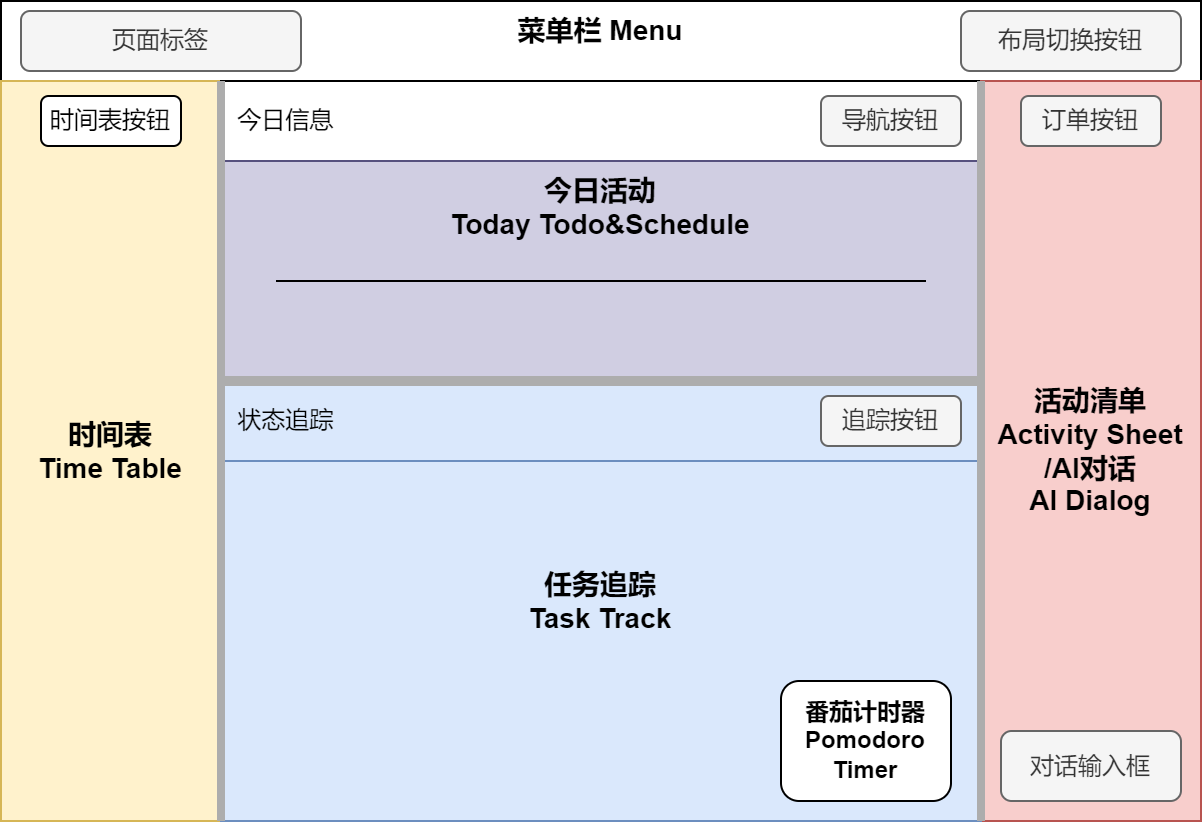
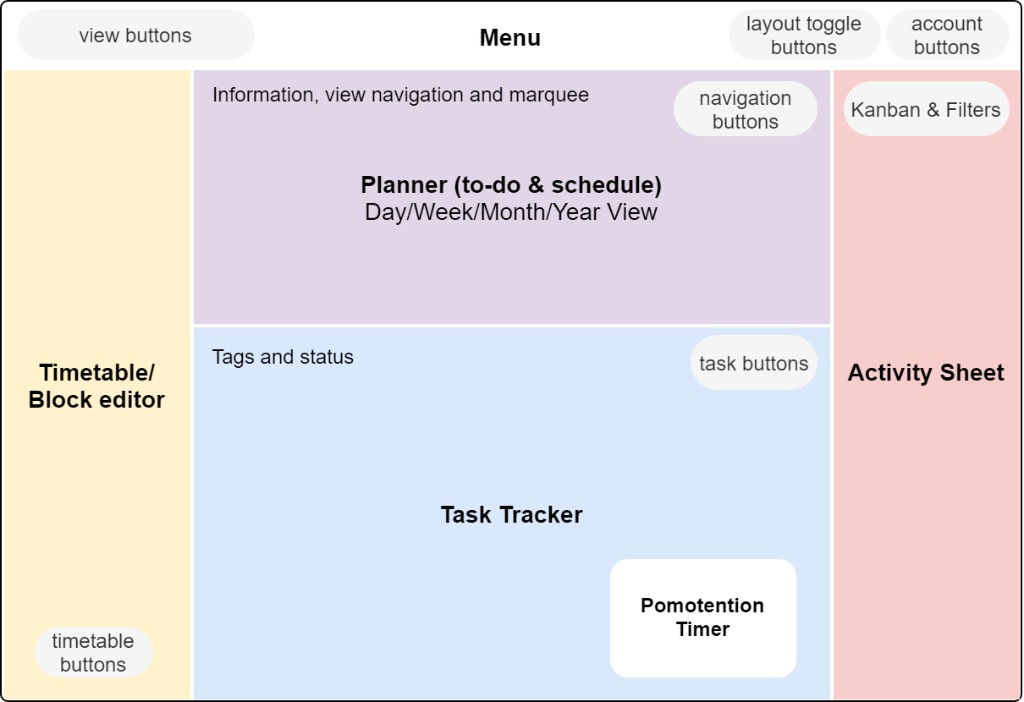
docs(help): 页面部分重构

Changed region(s): [[0.0, 0.0, 1.0, 1.0], [0.4062, 0.688, 0.5625, 0.7778]]

diff --git a/docs/guide/reference/interface.md b/docs/guide/reference/interface.md
@@ -1,78 +1,150 @@
 # 软件界面说明
 
+::: tip 快速查阅
+
+- [附录：按钮速查表](../appendix/buttons.md)
+- [附录：术语对照表](../appendix/glossary.md)
+  :::
+
 ![页面布局](/public/pomotention-layout.png)
+![页面布局实际](/public/pomotention-app.png)
 
-## 1 菜单栏
+## 1 顶栏（Menu）
 
-### 1.1 页面跳转
+### 1.1 路由菜单
 
 **核心功能**：
 
 - 切换到`首页`
-- 切换到`数据页`
-- 切换到`帮助页`，查看版本，关闭更新
-- 切换到`仪表盘`，查看数据趋势图
+- 切换到`数据页`，查看全部活动，[详见](search.md)
+- 切换到`仪表盘`，查看行为数据趋势, [详见](./chart.md)
+- 切换到`帮助页`，查看软件帮助信息
+- 切换到`设置页`，软件状态及调试工具
+- <img src="/icons/List24Filled.svg" width="20" style="display:inline-block;vertical-align:middle;margin:0;background:rgb(244, 244, 244);border-radius: 6px;">
+  手机端收缩菜单按钮
 
 ### 1.2 布局切换
 
-**核心功能**：
+|                                                                                按钮图标                                                                                 | 功能说明                               |
+| :---------------------------------------------------------------------------------------------------------------------------------------------------------------------: | :------------------------------------- |
+|    <img src="/icons/Timeline20Regular.svg" width="20" style="display:inline-block;vertical-align:middle;margin:0;background:rgb(255, 255, 255);border-radius: 6px;">    | 切换时间表视图 `Timetable`             |
+|    <img src="/icons/TasksApp20Regular.svg" width="20" style="display:inline-block;vertical-align:middle;margin:0;background:rgb(255, 255, 255);border-radius: 6px;">    | 切换任务计划视图 `Planner`             |
+| <img src="/icons/CalligraphyPen20Regular.svg" width="20" style="display:inline-block;vertical-align:middle;margin:0;background:rgb(255, 255, 255);border-radius: 6px;"> | 切换任务追踪视图 `Task Tracker`        |
+|   <img src="/icons/BookLetter20Regular.svg" width="20" style="display:inline-block;vertical-align:middle;margin:0;background:rgb(255, 255, 255);border-radius: 6px;">   | 切换活动清单视图 `Activity Sheet`      |
+|     <img src="/icons/Timer24Regular.svg" width="20" style="display:inline-block;vertical-align:middle;margin:0;background:rgb(255, 255, 255);border-radius: 6px;">      | 切换番茄意图计时器 `Pomotention Timer` |
+|      <img src="/icons/Pin24Regular.svg" width="20" style="display:inline-block;vertical-align:middle;margin:0;background:rgb(255, 255, 255);border-radius: 6px;">       | 切换计时器置顶模式（仅桌面应用）       |
+|                                                                                                                                                                         |
 
-- 仅显示番茄时钟置顶
-- 显示隐藏番茄钟区、时间表区、任务计划区、任务追踪区、活动清单区
+### 1.3 账号与数据
 
-## 2 首页布局
+- 详见：[账号与数据](../intro/account-and-data.md)
 
-### 2.1 右侧面板
-
-#### 2.1.1 活动清单
-
-**核心功能**：
-
-- 管理各类型活动
-- 设置标签，活动级别
-- 利用筛选和拖拽功能构建看板
-- 将活动导入任务计划
-- 增加活动记录的追踪信息
-- 利用颜色标记活动的时效和状态
-
-#### 2.1.2 AI 对话
-
-**核心功能**：
-
-- 发起 AI 对话
-- 修改设置
-- 删除历史对话
-
-### 2.2 中上面板 - 任务计划区
-
-**核心功能**：
-
-- 管理当天所有待办和预约
-- 实时追踪任务完成状态
-- 快速导航不同日期的任务
-- 提供日、周和月视图
-- 今日累积番茄和全局累积番茄可视化
-
-### 2.3 中下面板 - 任务追踪区
-
-**核心功能**：
-
-- 记录任务执行过程中的细节
-- 统计精力消耗情况
-- 标记任务被打断情况（内部/外部打扰）并转化为活动
-- 保存和提取书写模板
-
-### 2.4 左侧区域 - 时间表区
+## 2 左侧面板：时间表 / 区块编辑器（Timetable / Block editor）
 
 **核心功能**：
 
 - 可视化一日的工作、休息分布
 - 编辑工作/休闲时间表，切换显示
-- 互动式任务安排于可用时间区间
+- 在可用时间区间内互动式安排任务
+- 详见：[时间表构建](timetable.md)
 
-### 2.5 功能联动说明
+## 3 中央上面板：任务计划（Planner）
 
-1. **活动清单 → 任务计划**：待办活动手动选择到指定日期，预约活动基于到期日期自动加入计划
-2. **活动清单 → 任务追踪**：活动清单或任务计划选择追踪任务，3 个区域联动显示
-3. **任务计划 → 时间表**：设置番茄时间和优先级后，任务会同步显示在时间表时间轴上，并可以拖动修改位置
-4. **全局日期切换**：更改顶部日期后，所有面板内容会自动同步更新
+**核心功能**：
+
+- 规划管理待办 `to-dos` 、预约 `schedules`和活动 `activities`
+- 显示任务追踪信息 `task`
+- 日、周、月、年视图切换及导航
+- 展示当前视图日期信息
+- 展示累积番茄量
+- 基于标签筛视图中的活动
+- 滚动展示当前核心意图
+- 详见：[任务计划](planner.md)
+
+## 4 中央下面板：任务追踪（Task Tracker）
+
+**核心功能**：
+
+- 展示标签 `tag` 和任务状态信息
+- 记录精力消耗 `energy` ，奖赏值 `reward` 情况
+- 标记任务被打断情况（内部/外部打扰）`activities` 并转化为活动
+- 保存和提取书写模板 `writing template`
+- 详见：[任务追踪](task.md)
+
+## 5 右侧面板：活动清单（Activity Sheet）
+
+**核心功能**：
+
+- 增删改活动 `activities`
+- 利用筛选和拖拽功能构建看板
+- 将活动加入任务计划
+- 以颜色标记活动的时效和状态
+- 详见：[活动清单](planner.md)
+
+## 6 浮动区域：番茄意图计时器（Pomotention Timer）
+
+**核心功能**：
+
+- 单次工作或休息计时
+- 连续工作或休息计时
+- 自定义工作、休息时长
+- 自定义工作白噪音
+- 自定义工作标语
+- 计时器置顶（仅桌面应用）
+- 详见：[番茄意图计时器](timer.md)
+
+## 7 功能联动说明
+
+可以把首页想成一条流水线：**活动清单**负责「有什么」；**任务计划**负责「哪天做、排进日历语义」；**时间表**负责「这一天里几点到几点」；**任务追踪**负责「真正做的时候写了什么、耗了多少精力」；**番茄钟**负责「当下这一段是否在计时」。下面两张图分别对应「区域之间往哪送数据」和「同一条工作从想法到记录」的大致顺序；拖动、筛选等多是**在同一区域里改形状**，跨区时才会出现箭头上的那些动作。
+
+### 7.1 区域之间：数据往哪流
+
+```mermaid
+flowchart TB
+  AS["活动清单 Activity Sheet<br/>一条 Activity"]
+  PL["任务计划 Planner<br/>Todo / Schedule"]
+  TT["时间表 Timetable<br/>当日时间轴上的块"]
+  TK["任务追踪 Task Tracker<br/>Task 执行记录"]
+  PM["番茄意图计时器 Pomotention Timer"]
+
+  AS -->|"加入今日/预约"| PL
+  PL -->|"选定日期的条目出现在轴上"| TT
+  AS -->|"选活动 → 追踪"| TK
+  PL -->|"执行中关联为追踪任务"| TK
+  TK -.->|"同时计时/休息"| PM
+```
+
+- 上图里 **`Activity`** 始终在清单侧；进入计划后仍是同一条数据在 **`Planner`** 里换视图展示。
+- **`Task`** 在追踪侧：可以从清单或计划「点进追踪」挂上，执行中的文字、能量、打断等多写在这里。
+- **`Timetable`** 上的拖动改的是**当天时间分配**（可视化一日），不替代 `Planner` 里周/月视角的排程语义。
+- **`Pomotention Timer`** 不「存业务数据」，但与追踪同时进行时，构成执行情境（预估时长、实际专注段等）。
+
+### 7.2 同一件事：从条目到记录（生命周期直觉）
+
+```mermaid
+stateDiagram-v2
+  direction LR
+  state "在活动清单" as S1
+  state "在任务计划" as S2
+  state "在时间表上" as S3
+  state "在任务追踪" as S4
+
+  [*] --> S1: 新建或整理 Activity
+  S1 --> S2: 纳入 Todo / Schedule
+  S2 --> S3: 出现在当日轴并可拖动
+  S2 --> S4: 选为追踪任务
+  S1 --> S4: 直接追踪（如灵感/拆分）
+  S4 --> S1: 打扰等转为新 Activity
+  S3 --> S4: 执行时打开追踪
+```
+
+### 7.3 联动要点（对照上图）
+
+1. **`Activity Sheet` → `Planner`**：把选定活动加入计划，成为待办 `Todo` 或预约 `Schedule`。
+2. **`Activity Sheet` → `Task Tracker`**：不先排程也可以追踪——适合灵感、拆分、边做边记。
+3. **`Planner` → `Task Tracker`**：执行某条已排活动时，在追踪区写状态、想法、能量等，对应 **`Task`**。
+4. **`Planner` → `Timetable`**：当前选定日期的 `Todo` / `Schedule` 会出现在左侧时间轴；**拖动块**是在把「这一天里」的占位调到具体时段。
+5. **`Planner` 内**：日 / 周 / 月 / 年视图切换，用来从不同时间尺度看趋势（仍在计划语义内，与时间表「单日轴」互补）。
+6. **`Pomotention Timer`**：与 `Todo` 的预估、执行中的专注段配合，提供计时情境；可与追踪并行使用。
+
+术语若混用，见 [附录：术语对照表](../appendix/glossary.md)。

diff --git a/docs/guide/intro/account-and-data.md b/docs/guide/intro/account-and-data.md
@@ -20,6 +20,16 @@ description: 注册、登录、云端同步与 JSON 导入导出；桌面与 PWA
 | 全量 JSON **导出**   | 支持       | 不支持          | 不支持         |
 | JSON **导入**        | 支持       | 支持            | 不支持         |
 
+## 按钮与状态
+
+|                                                                                按钮图标                                                                                 | 功能说明                           |
+| :---------------------------------------------------------------------------------------------------------------------------------------------------------------------: | :--------------------------------- |
+| <img src="/icons/DatabasePerson20Regular.svg" width="20" style="display:inline-block;vertical-align:middle;margin:0;background:rgb(255, 255, 255);border-radius: 6px;"> | 打开数据迁移菜单                   |
+|     <img src="/icons/Person20Filled.svg" width="20" style="display:inline-block;vertical-align:middle;margin:0;background:rgb(255, 255, 255);border-radius: 6px;">      | 未登录，跳转登录页面               |
+|     <img src="/icons/Person20Regular.svg" width="20" style="display:inline-block;vertical-align:middle;margin:0;background:rgb(255, 255, 255);border-radius: 6px;">     | 已登录，跳转登录页面               |
+|     <img src="/icons/Person20Regular.svg" width="20" style="display:inline-block;vertical-align:middle;margin:0;background:rgb(193, 226, 255);border-radius: 6px;">     | 已登录，有未同步数据，跳转登录页面 |
+|   <img src="/icons/CloudSync20Regular.svg" width="20" style="display:inline-block;vertical-align:middle;margin:0;background:rgb(193, 226, 255);border-radius: 6px;">    | 数据正在同步                       |
+
 ## 注册与云端同步 {#account-sync}
 
 - 点击登录按钮<img src="/icons/Person20Filled.svg" width="20" style="display:inline-block;vertical-align:middle;margin:0;border-radius: 6px;">；按界面指引进入注册流程。

diff --git a/docs/guide/index.md b/docs/guide/index.md
@@ -14,12 +14,34 @@
 
 ## 功能参考
 
-- [软件界面](reference/interface.md) · [附录：按钮速查表](appendix/buttons.md) [附录：术对照表](appendix/glossary.md)
-- [活动清单](reference/activity.md) · [任务计划](reference/planner.md) · [日程构建](reference/timetable.md)
-- [任务追踪](reference/task.md) · [标签系统](reference/tag.md)
-- [番茄时钟](reference/timer.md) · [日程导出](reference/ics.md)
-- [数据查看](reference/search.md) · [数据趋势](reference/chart.md)
-- [数据同步](reference/synchronize.md) · [数据与迁移](reference/data.md)
+建议按「先认界面 → 再排计划 → 再专注执行 → 最后看数据与标签」阅读；需要查按钮含义或术语时，跳到附录即可。分组与左侧目录一致。
+
+### 界面
+
+- [软件界面](reference/interface.md)
+
+### 活动、计划与日程
+
+- [活动清单](reference/activity.md)
+- [任务规划](reference/planner.md)
+- [时间表构建](reference/timetable.md)
+- [日程导出](reference/ics.md)
+
+### 专注与记录
+
+- [番茄时钟](reference/timer.md)
+- [任务追踪](reference/task.md)
+
+### 标签与数据
+
+- [标签系统](reference/tag.md)
+- [数据查看](reference/search.md)
+- [数据趋势](reference/chart.md)
+
+### 附录
+
+- [按钮速查表](appendix/buttons.md)
+- [术语对照表](appendix/glossary.md)
 
 ## 其他
 
